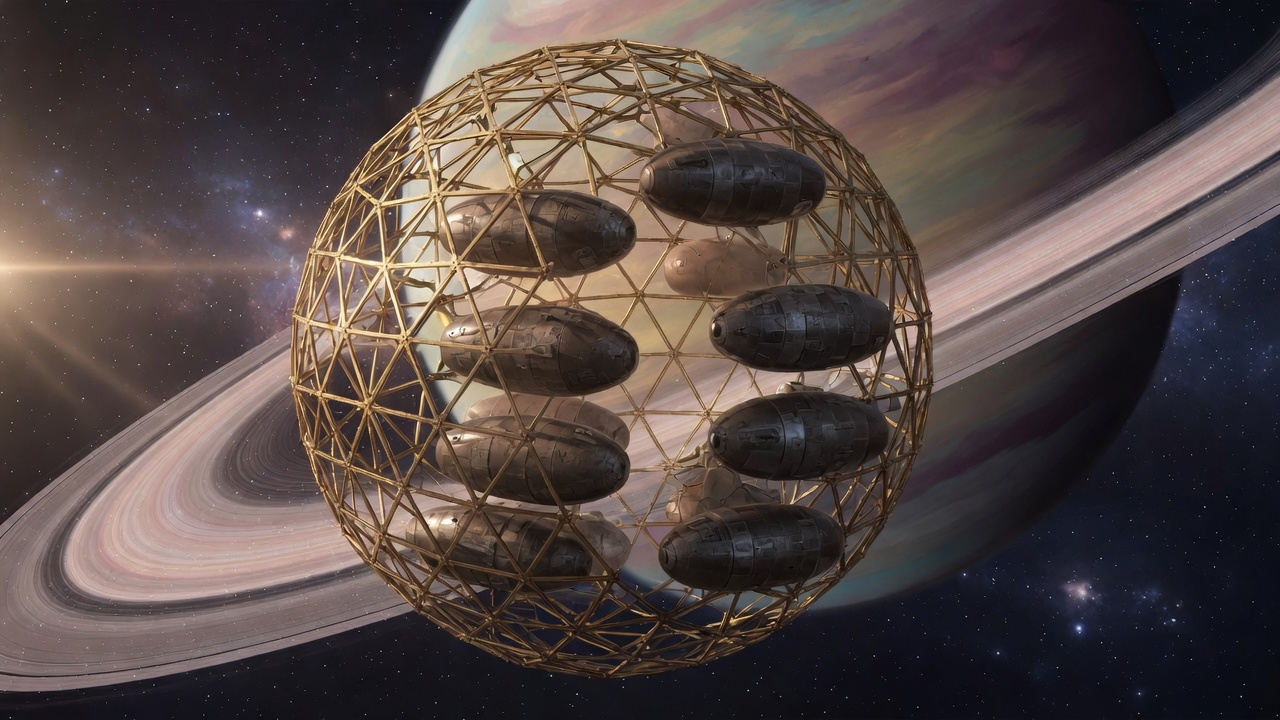
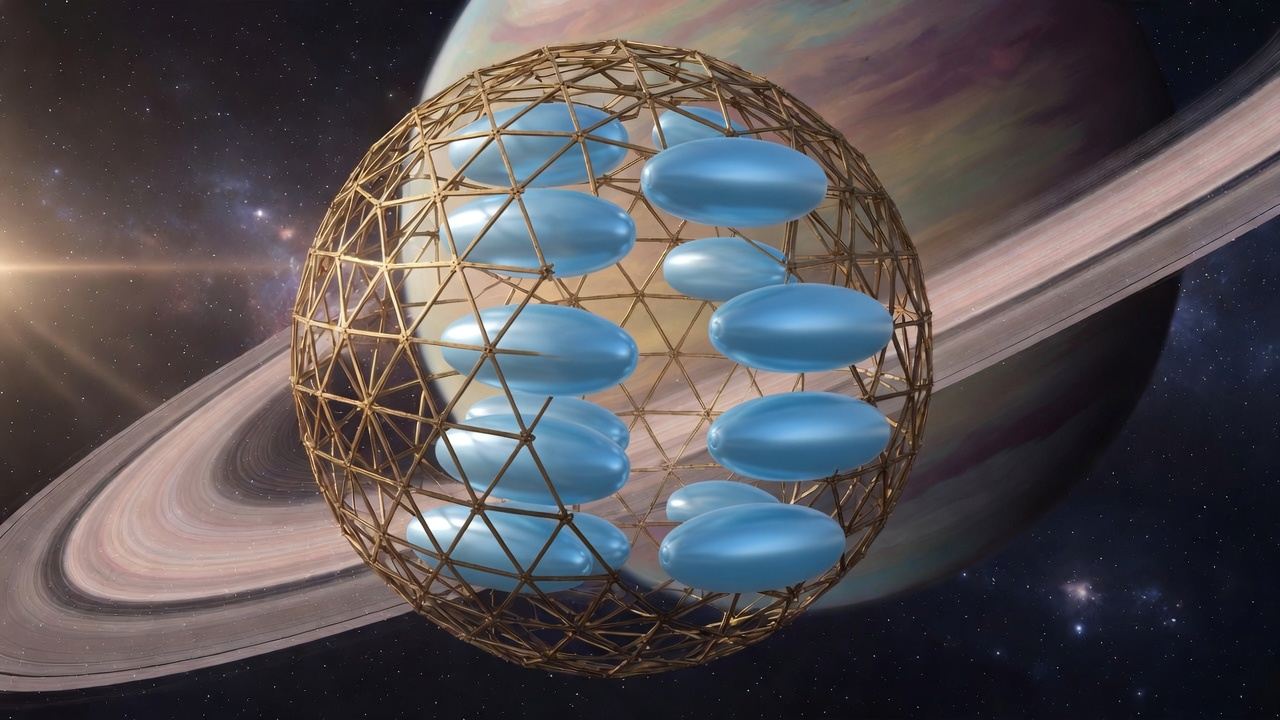
Show Arcadia's Moon as atypical Traveler geodesic with sky-blue ovoids.
Article prose now stresses reconfiguring ovoids and non-freighter lines from p. 241. Illustration uses sky-blue from secondary paraphrase; colour stays out of article text because the novel does not fix it.

Changed region(s): [[0.25, 0.1222, 0.7188, 0.825]]

diff --git a/exodus-the-archimedes-engine/pages/locations/arcadias-moon.html b/exodus-the-archimedes-engine/pages/locations/arcadias-moon.html
@@ -76,7 +76,7 @@
             <dt>Type</dt>
             <dd>Traveler starship; deniable charter hull</dd>
             <dt>Hull</dt>
-            <dd>Geodesic sphere of golden trusses enclosing eight repositionable ovoid elements</dd>
+            <dd>Atypical Traveler architecture: geodesic sphere of golden trusses enclosing eight repositionable ovoid elements</dd>
             <dt>Captain</dt>
             <dd><a href="../characters/andino.html">Andino</a></dd>
             <dt>Affiliation</dt>
@@ -139,9 +139,10 @@
           </p>
           <p>
             The <em>Infinite Totality</em> is a false hull rather than a false name. The
-            <em>Arcadia’s Moon</em>’s own shape is unmistakable — a geodesic sphere of golden trusses
-            enclosing eight ovoid elements that slide around the interior and realign as the ship’s flight
-            status changes — so concealing it means burying it. A Lidon astroengineering firm builds the
+            <em>Arcadia’s Moon</em> does not share the usual Traveler freighter lines: its true shape is a
+            geodesic sphere of golden trusses containing eight ovoid elements that move around inside the
+            sphere and reconfigure their alignment with the ship’s flight status — so concealing it means
+            burying that silhouette. A Lidon astroengineering firm builds the
             answer to order: a shell fuselage, a cone whose base flares into a sphere, drawn from
             ultrabonded fibre hunted out of that planet’s ruined geo-ring. The ship flies inside the shell
             and sheds it once it has served, leaving the casing split in half and hinged open.

diff --git a/exodus-the-archimedes-engine/docs/visual-briefs/arcadias-moon.md b/exodus-the-archimedes-engine/docs/visual-briefs/arcadias-moon.md
@@ -4,15 +4,15 @@
 |---|---|
 | **Slug** | `arcadias-moon` |
 | **Kind** | ship |
-| **Clade / type** | Traveler charter starship |
+| **Clade / type** | Traveler charter starship (atypical architecture) |
 | **Role** | Andino’s deniable hull; flies inside the *Infinite Totality* shell |
 | **Image path** | `assets/images/ships/arcadias-moon.jpg` |
 | **Companion image** | `assets/images/ships/infinite-totality.jpg` — disguise shell (see `infinite-totality.md`) |
 
 ## Physical / design cues (research)
 
-- True hull (novel p. 241 / wiki): a **geodesic sphere of golden trusses** enclosing **eight ovoid elements** that slide and realign around the interior as flight status changes
-- Mid-size Traveler deniable charter — not navy capital, not arkship-scale
+- True hull (novel p. 241 / wiki): a **geodesic sphere of golden trusses** containing **eight ovoid elements** that move around inside the sphere and reconfigure their alignment depending on flight status
+- **Atypical** for a Traveler spacecraft — not conventional freighter/salvage lines
 - Silhouette is unmistakable enough that concealing it requires a full shell fuselage (*Infinite Totality*)
 
 ## Clothing / finish
@@ -21,21 +21,21 @@ n/a
 
 ## Setting / composition
 
-Three-quarter view near a ringed gas giant; golden lattice readable against deep space
+Three-quarter view near a ringed gas giant; golden lattice and interior ovoids both readable
 
 ## Inference flags
 
-- Exact ovoid plating colour (charcoal-bronze) and window/port detail are not fixed by the novel
-- Whether the eight elements look more like pods or solid ovoids is inference — the book only fixes count, ovoid shape, and that they move inside the sphere
+- **Ovoid colour:** the novel does not fix a colour (p. 241). Secondary paraphrase (Fandom) adds “sky-blue”; the illustration uses sky-blue for that reason. Article prose deliberately omits the colour so it cannot invent a book fact
+- Surface finish of the ovoids (smooth capsule vs panelled pod) is not fixed by the novel
 
 ## Generation prompt
 
 ```
-Highly detailed cinematic sci-fi encyclopedia illustration, rich textures, sharp focus, painterly digital art with photographic detail, soft volumetric lighting. Exterior plate of the Arcadia’s Moon, a mid-size Traveler deniable charter starship whose true hull is unmistakable: a geodesic sphere of golden metallic trusses forming an open lattice cage, enclosing eight large ovoid module pods that sit inside the sphere and can slide and realign around the interior. Warm gold and amber truss framework, darker charcoal-bronze ovoids with worn civilian charter-ship character, not a navy capital ship and not a freighter box. Three-quarter view in deep space near a ringed gas giant, soft starlight catching the golden geodesic lattice so the sphere silhouette and the eight interior ovoids read clearly. Absolutely no text of any kind: no captions, no labels, no lettering, no logos, no brand marks, no hull names, no registry numbers, no UI chrome, no watermarks.
+Highly detailed cinematic sci-fi encyclopedia illustration, rich textures, sharp focus, painterly digital art with photographic detail, soft volumetric lighting. Exterior plate of the Arcadia’s Moon, an atypical Traveler charter starship: open geodesic sphere of golden metallic trusses enclosing exactly eight sky-blue ovoid elements that can move around inside the sphere and reconfigure their alignment depending on flight status. Warm gold lattice cage, smooth sky-blue ovoid modules with subtle metallic sheen, not a conventional freighter and not a navy capital. Three-quarter view in deep space near a ringed gas giant. Absolutely no text of any kind: no captions, no labels, no lettering, no logos, no brand marks, no hull names, no UI chrome, no watermarks.
 ```
 
 ## Sources
 
 - Wiki article `pages/locations/arcadias-moon.html`
-- Maintainer research: `docs/external-sources-research.md` (book 1 p. 241 hull description)
-- Clade grammar: `docs/visual-briefs/README.md`
+- Book 1 p. 241 (geodesic golden trusses + eight ovoids that slide inside the sphere) — see `docs/external-sources-research.md`
+- Sky-blue: secondary paraphrase only; used in art, not in article prose

diff --git a/exodus-the-archimedes-engine/docs/visual-briefs/IMAGE-REVIEW.md b/exodus-the-archimedes-engine/docs/visual-briefs/IMAGE-REVIEW.md
@@ -160,9 +160,12 @@ chained from the new Finn portrait so ancestry matches.
 **2026-07-25 (companion).** *Infinite Totality* shell plate on `arcadias-moon.html` — see section above.
 
 **2026-07-25 (Arcadia’s Moon true hull).** Regenerated primary plate: golden geodesic sphere of trusses
-enclosing eight charcoal-bronze ovoids near a ringed giant. Prior freighter plate had burned-in hull
-lettering and contradicted p. 241 / the article’s own hull field. Flag-like colour patches on one
-module cleaned in a second pass. **PASS** — sphere + ovoid architecture matches the book; no text.
+enclosing interior ovoids near a ringed giant. Prior freighter plate had burned-in hull lettering and
+contradicted p. 241. **PASS** on architecture; no text.
+
+**2026-07-25 (sky-blue ovoids).** Recolour pass to sky-blue ovoids (secondary paraphrase; novel does not
+fix colour — article prose still omits it). Smoother capsule elements inside the golden cage; count
+reads ~eight under perspective. **PASS** as illustration of the atypical hull.
 
 | Slug | Prior defect | Regen check |
 |---|---|---|

diff --git a/exodus-the-archimedes-engine/docs/visual-briefs/README.md b/exodus-the-archimedes-engine/docs/visual-briefs/README.md
@@ -26,7 +26,7 @@ Maintainer-only notes for original encyclopedia illustrations. **Not** reader-fa
 | Hull | Class read |
 |---|---|
 | *Diligent* | Massive late-human **generation arkship** — city-scale modules, colony decks, utilitarian megastructure |
-| *Arcadia’s Moon* | Mid-size **Traveler charter** — golden geodesic sphere of trusses with eight interior ovoids; deniable (disguised as *Infinite Totality*) |
+| *Arcadia’s Moon* | **Atypical Traveler charter** — golden geodesic sphere of trusses with eight interior ovoids that reconfigure by flight status; deniable (disguised as *Infinite Totality*) |
 | *Alumata* | Sleek Crown **archon ship** — elegant, intelligence yacht, smaller than Heresy capital hulls |
 | *Cybele’s Eagle* | Compact **deniable passenger** transport — civilian lines, not navy |
 | *Lestari* | Enfoe **commercial** starship — dynasty freighter, Traveler-adjacent commerce |
